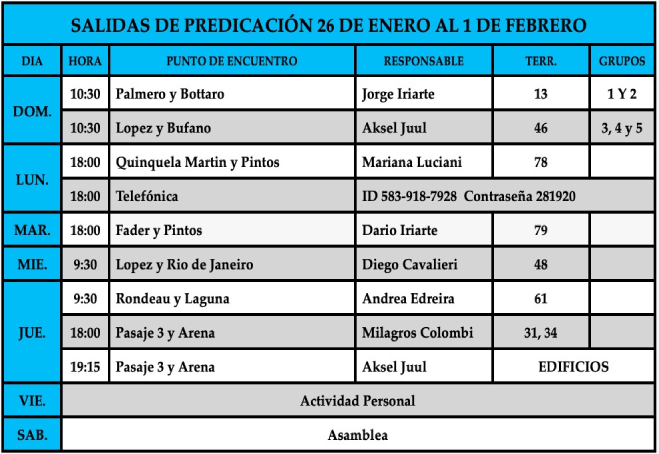
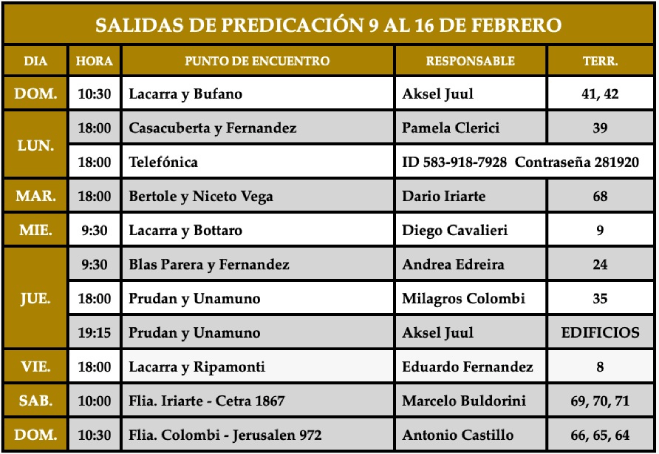
actualizo salida, programa y limpieza

diff --git a/pages/programaSemanal/programaSemanal.html b/pages/programaSemanal/programaSemanal.html
@@ -39,8 +39,7 @@
     <main>
         <section class="reuSemanal">
             <h2> Programa para la reunión entre semana</h2>
-            <img src="./asignacionesEnero1.png" alt="">
-            <img src="./asignacionesEnero2.png" alt="">
+            <img src="./asignacionesFebrero.png" alt="">
         </section>
     </main>
     <footer>
